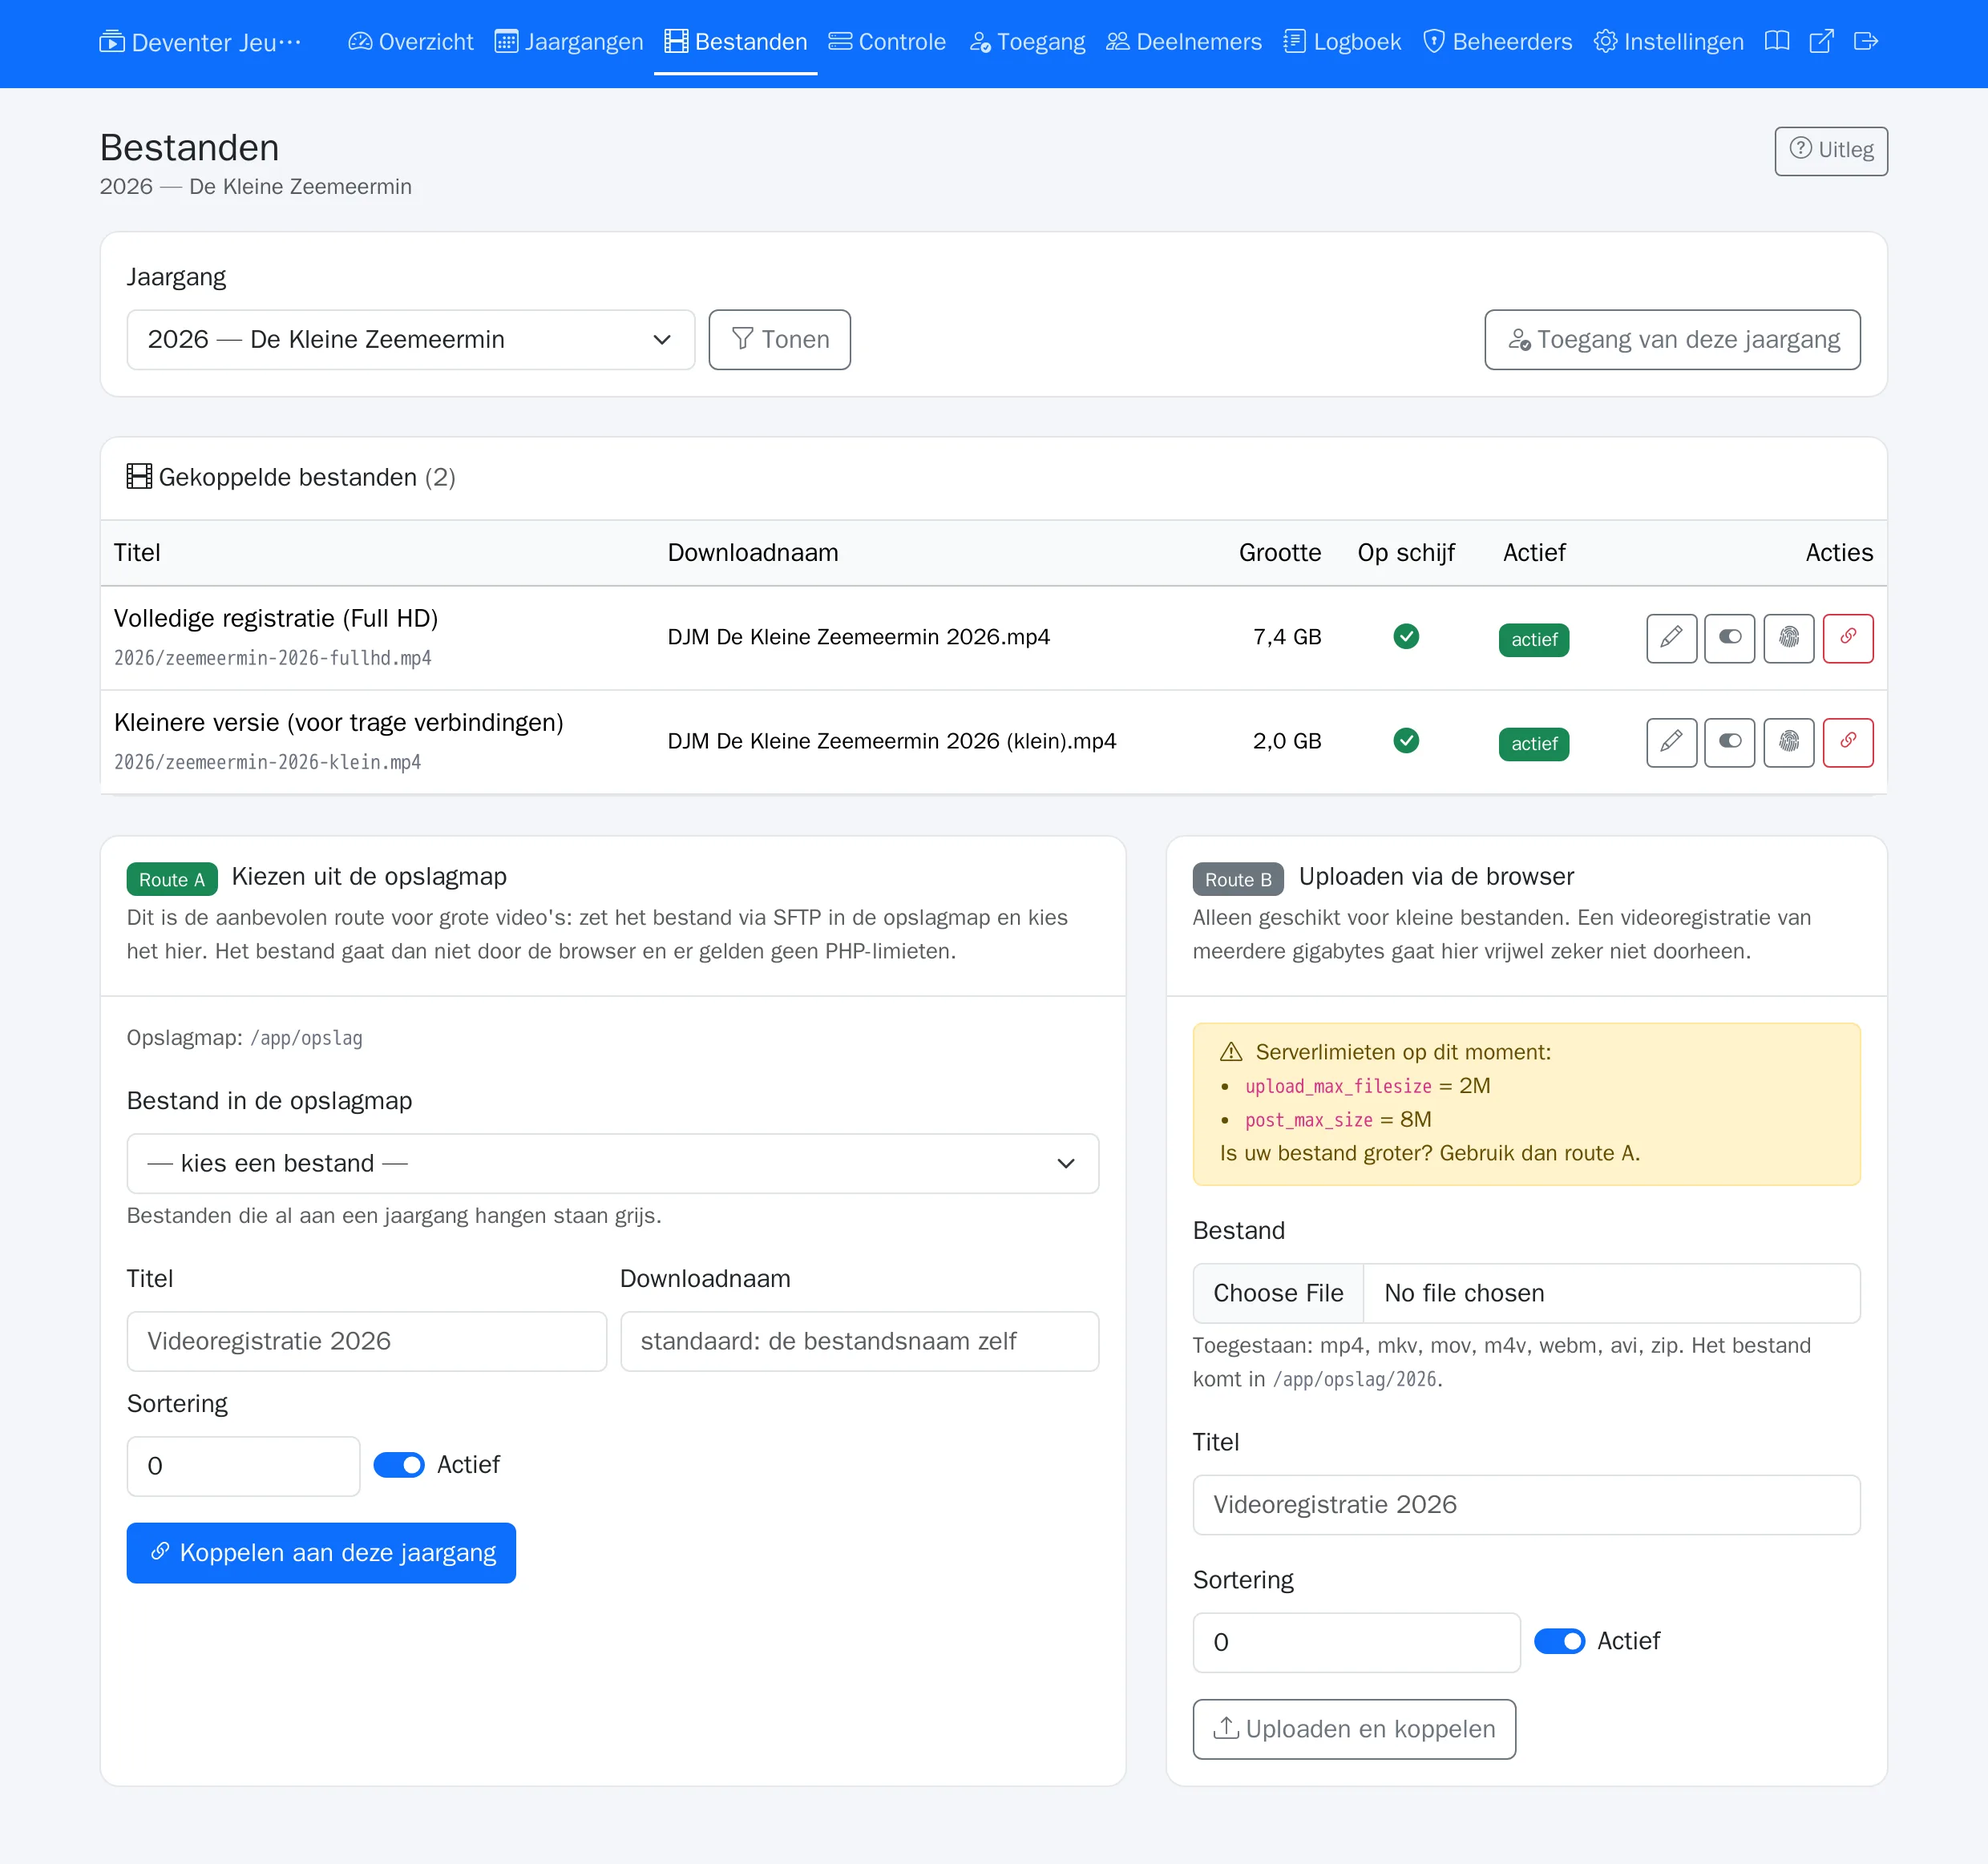
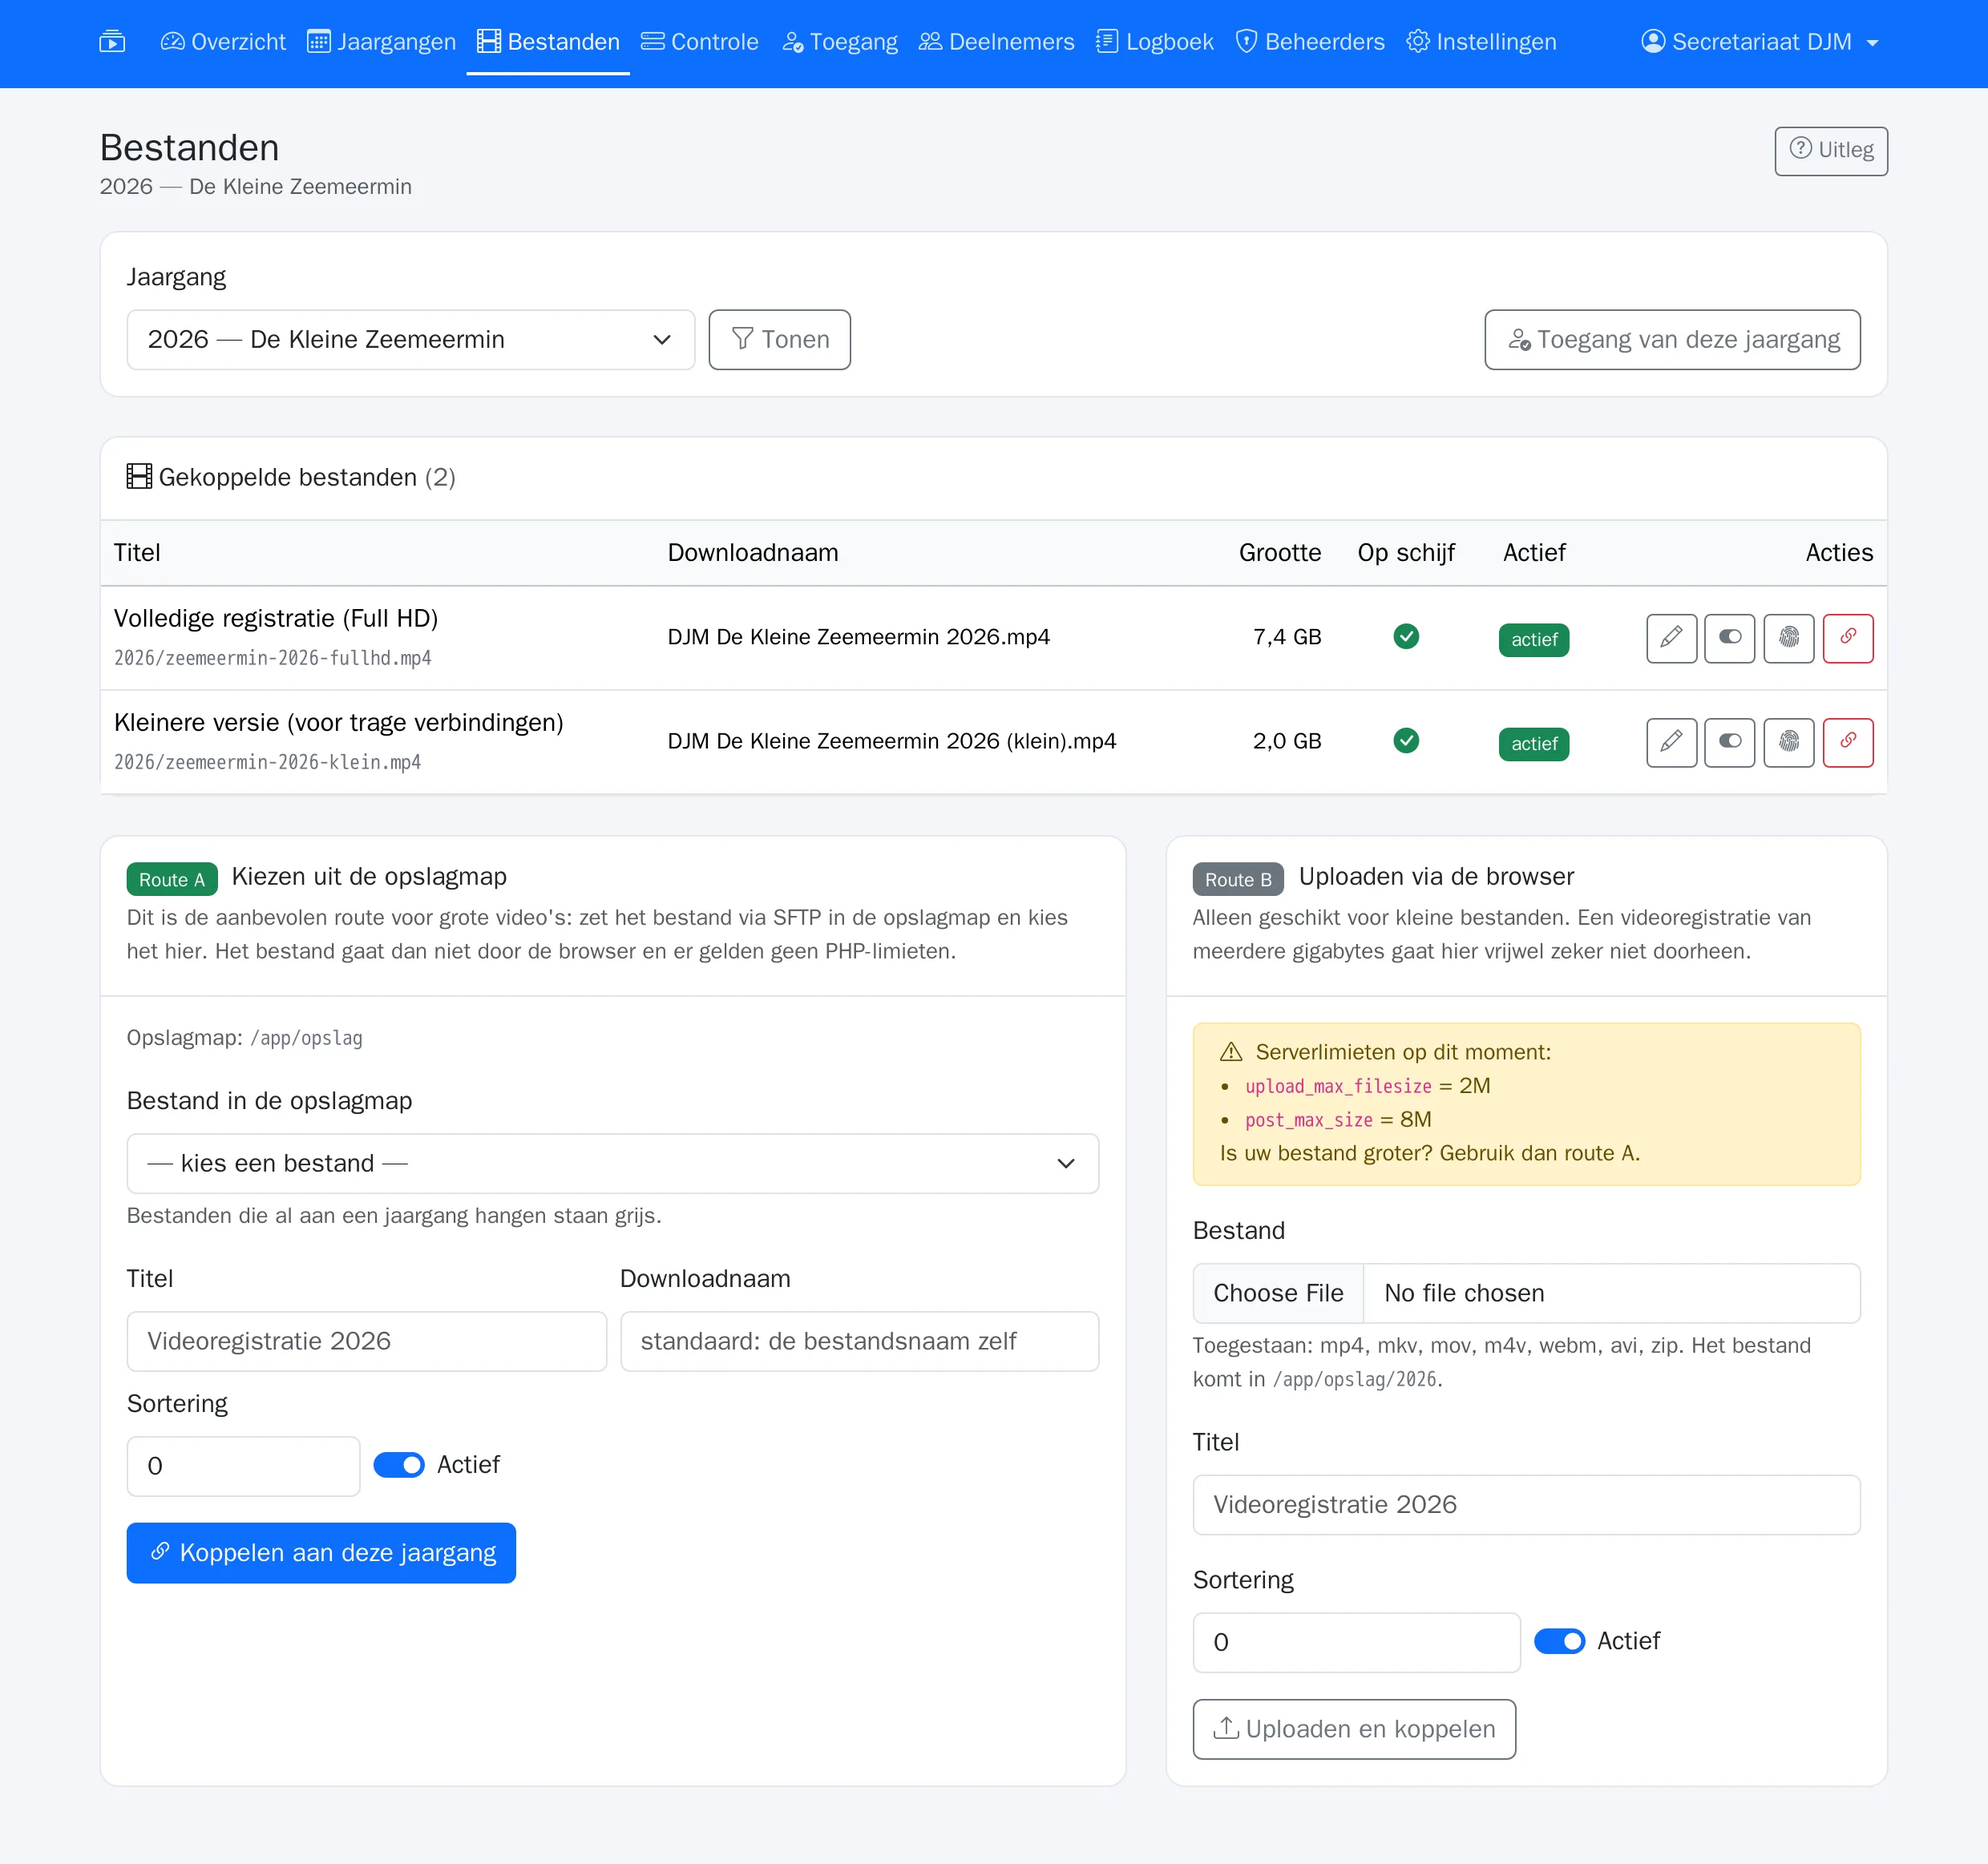
Update layout and styling for admin menu, enhance navigation, and improve changelog documentation

Changed region(s): [[0.0621, 0.0, 0.9315, 0.031]]

diff --git a/assets/djm.css b/assets/djm.css
@@ -351,14 +351,6 @@ body {
     outline-offset: 2px;
 }
 
-/* Het menu-item Uitloggen is een knop in een formulier (CSRF), maar moet er
-   hetzelfde uitzien als de links ernaast. */
-.navbar-djm .nav-link.btn {
-    border: 0;
-    padding-top: .5rem;
-    padding-bottom: .5rem;
-}
-
 /* Icoon en label horen op één regel te blijven. Zonder dit breekt het label
    onder het icoon zodra de balk krap wordt, en wordt de navigatiebalk anderhalf
    keer zo hoog. */
@@ -377,9 +369,9 @@ body {
     text-overflow: ellipsis;
 }
 
-/* Zodra het menu uitklapt, staan er tien items naast de portaalnaam binnen een
-   container van maximaal 1320 pixels. Met de standaardmaten van Bootstrap past
-   dat niet: de naam wordt dan op élk breed scherm afgekapt. Iets minder
+/* Zodra het menu uitklapt, staan er negen items plus het accountmenu naast het
+   logo, binnen een container van 1140 (xl) of 1320 pixels (xxl). Met de
+   standaardmaten van Bootstrap past dat op xl net niet; iets minder
    tussenruimte en een fractie kleinere letter lossen dat op. */
 @media (min-width: 1200px) {
     .navbar-djm .navbar-nav .nav-link {
@@ -394,33 +386,39 @@ body {
     }
 }
 
-/* Tussen 1200 en 1400 pixels is het nog krapper. Daar wordt de naam van de
-   beheerder ingeklapt tot alleen het uitlogicoon; hij blijft wel in de HTML
-   staan, zodat een schermlezer hem nog voorleest. */
-@media (min-width: 1200px) and (max-width: 1399.98px) {
-    .navbar-djm .djm-beheerdersnaam {
-        position: absolute !important;
-        width: 1px;
-        height: 1px;
-        padding: 0;
-        margin: -1px;
-        overflow: hidden;
-        clip: rect(0, 0, 0, 0);
-        white-space: nowrap;
-        border: 0;
-    }
-
-    /* De uitlogknop is het enige menu-item in een formulier; zonder zichtbaar
-       label hoeft het icoon daar geen rechtermarge meer. */
-    .navbar-djm form .nav-link .bi {
-        margin-right: 0 !important;
-    }
-}
-
 @media (min-width: 1400px) {
     .navbar-djm .navbar-brand {
         max-width: 420px;
     }
+}
+
+/* Zonder logo staat de portaalnaam links. Tussen 1200 en 1400 pixels is daar
+   geen ruimte voor naast het uitgeklapte menu; een naam van een paar letters
+   ("D…") zegt niets, dus dan alleen het icoon. De naam staat in de tooltip. */
+@media (min-width: 1200px) and (max-width: 1399.98px) {
+    .djm-beheer .navbar-brand .djm-merknaam {
+        display: none;
+    }
+}
+
+/* Het logo in de balk van het beheer: vrij te uploaden, dus een vaste hoogte. */
+.djm-beheer .navbar-brand img {
+    height: 32px;
+    width: auto;
+    max-width: 160px;
+    object-fit: contain;
+}
+
+/* Het accountmenu: de actieve regel in de merkkleur in plaats van Bootstrap-blauw.
+   Uitloggen is een knop in een formulier en moet er net zo uitzien als de links. */
+.navbar-djm .dropdown-menu {
+    --bs-dropdown-link-active-bg: var(--djm);
+    --bs-dropdown-link-active-color: var(--djm-tekst);
+    min-width: 13rem;
+}
+
+.navbar-djm .dropdown-toggle::after {
+    vertical-align: .15em;
 }
 
 .kaart {

diff --git a/admin/includes/layout.php b/admin/includes/layout.php
@@ -52,6 +52,7 @@ function admin_start(string $titel, string $subtitel = ''): void
     $naam   = portaal_naam();
     $kleur  = branding_kleur();
     $beheerderNaam = (string)($_SESSION['beheerder_naam'] ?? '');
+    $logo   = branding_logo();
     ?>
 <!DOCTYPE html>
 <html lang="nl">
@@ -63,8 +64,15 @@ function admin_start(string $titel, string $subtitel = ''): void
 <body class="djm-beheer">
     <nav class="navbar navbar-expand-xl navbar-djm mb-4">
         <div class="container-xl">
-            <a class="navbar-brand fw-semibold" href="<?= h(url('admin/index.php')) ?>">
-                <i class="bi bi-collection-play me-1"></i><?= h($naam) ?>
+            <!-- Het logo in plaats van de naam: de naam is vrij in te vullen en kan lang
+                 zijn, en naast negen menu-items bleef er dan maar een paar letters van over. -->
+            <a class="navbar-brand fw-semibold d-flex align-items-center gap-2" href="<?= h(url('admin/index.php')) ?>"
+                title="<?= h($naam) ?> — beheer">
+                <?php if ($logo !== ''): ?>
+                    <img src="<?= h($logo) ?>" alt="<?= h($naam) ?>" height="32">
+                <?php else: ?>
+                    <i class="bi bi-collection-play"></i><span class="text-truncate djm-merknaam"><?= h($naam) ?></span>
+                <?php endif; ?>
             </a>
             <button class="navbar-toggler border-0" type="button" data-bs-toggle="collapse"
                 data-bs-target="#adminNav"><i class="bi bi-list fs-3"></i></button>
@@ -79,33 +87,40 @@ function admin_start(string $titel, string $subtitel = ''): void
                         </li>
                     <?php endforeach; ?>
                 </ul>
+                <!-- Handleiding, het portaal en uitloggen staan onder de naam van de beheerder.
+                     Zo past het hele menu op één regel, ook tussen 1200 en 1400 pixels. -->
                 <ul class="navbar-nav">
-                    <li class="nav-item">
-                        <!-- Tussen xl en xxl is de balk te smal voor het woord; dan alleen het icoon. -->
-                        <a class="nav-link <?= $huidig === 'handleiding.php' ? 'active' : '' ?>"
-                            href="<?= h(url('admin/handleiding.php')) ?>" title="Handleiding">
-                            <i class="bi bi-book"></i><span class="ms-1 d-xl-none d-xxl-inline">Handleiding</span>
+                    <li class="nav-item dropdown">
+                        <a class="nav-link dropdown-toggle <?= $huidig === 'handleiding.php' ? 'active' : '' ?>" href="#"
+                            role="button" data-bs-toggle="dropdown" aria-expanded="false">
+                            <i class="bi bi-person-circle me-1"></i><span
+                                class="djm-afkappen"><?= h($beheerderNaam ?: 'Account') ?></span>
                         </a>
-                    </li>
-                    <li class="nav-item">
-                        <!-- Net als Handleiding: tussen xl en xxl alleen het icoon, zodat de
-                             portaalnaam links niet tot een paar letters wordt afgekapt. -->
-                        <a class="nav-link" href="<?= h(url('index.php')) ?>" target="_blank" title="Portaal">
-                            <i class="bi bi-box-arrow-up-right"></i><span class="ms-1 d-xl-none d-xxl-inline">Portaal</span>
-                        </a>
-                    </li>
-                    <li class="nav-item">
-                        <!-- Uitloggen wijzigt de sessie en gaat daarom via POST met een
-                             CSRF-token; een <img src="…/logout.php"> op een andere site
-                             kan de beheerder dan niet ongevraagd uitloggen. -->
-                        <form method="post" action="<?= h(url('admin/logout.php')) ?>" class="d-inline">
-                            <?= csrf_field() ?>
-                            <button type="submit" class="nav-link btn btn-link text-decoration-none"
-                                title="Uitloggen">
-                                <i class="bi bi-box-arrow-right me-1"></i><span
-                                    class="djm-afkappen djm-beheerdersnaam"><?= h($beheerderNaam ?: 'Uitloggen') ?></span>
-                            </button>
-                        </form>
+                        <ul class="dropdown-menu dropdown-menu-end shadow-sm">
+                            <li>
+                                <a class="dropdown-item <?= $huidig === 'handleiding.php' ? 'active' : '' ?>"
+                                    href="<?= h(url('admin/handleiding.php')) ?>">
+                                    <i class="bi bi-book me-2"></i>Handleiding
+                                </a>
+                            </li>
+                            <li>
+                                <a class="dropdown-item" href="<?= h(url('index.php')) ?>" target="_blank">
+                                    <i class="bi bi-box-arrow-up-right me-2"></i>Portaal bekijken
+                                </a>
+                            </li>
+                            <li><hr class="dropdown-divider"></li>
+                            <li>
+                                <!-- Uitloggen wijzigt de sessie en gaat daarom via POST met een
+                                     CSRF-token; een <img src="…/logout.php"> op een andere site
+                                     kan de beheerder dan niet ongevraagd uitloggen. -->
+                                <form method="post" action="<?= h(url('admin/logout.php')) ?>" class="m-0">
+                                    <?= csrf_field() ?>
+                                    <button type="submit" class="dropdown-item">
+                                        <i class="bi bi-box-arrow-right me-2"></i>Uitloggen
+                                    </button>
+                                </form>
+                            </li>
+                        </ul>
                     </li>
                 </ul>
             </div>

diff --git a/CHANGELOG.md b/CHANGELOG.md
@@ -6,6 +6,10 @@ Alle noemenswaardige wijzigingen aan het DJM Portaal.
 
 ### Beheer
 
+- **De menubalk van het beheer past weer op één regel.** Handleiding, Portaal bekijken en
+  Uitloggen staan nu in een menu onder de naam van de beheerder, en links staat het logo in
+  plaats van de portaalnaam (zonder logo blijft de naam staan). Voorheen bleef er op een breed
+  scherm van de portaalnaam maar één letter over.
 - **Nieuw: Beheer › Beheerders.** Beheerders toevoegen, een nieuwe link sturen en accounts uit-
   en weer inschakelen, zonder server of database. Een nieuwe beheerder krijgt een uitnodiging
   per e-mail en kiest daarin zelf een wachtwoord (link 72 uur geldig); niemand anders ziet het.

diff --git a/docs/BEHEER.md b/docs/BEHEER.md
@@ -15,7 +15,7 @@ Wie alleen het jaarlijkse werk doet, heeft genoeg aan hoofdstuk 1 tot en met 5 e
 [NIEUW-JAAR.md](NIEUW-JAAR.md).
 
 > **In het portaal staat dezelfde handleiding, met schermafdrukken:** log in op het beheer en
-> kies **Handleiding** rechts in de menubalk. Elk beheerscherm heeft ook een knop **Uitleg**.
+> kies **Handleiding** onder uw naam, rechts in de menubalk. Elk beheerscherm heeft ook een knop **Uitleg**.
 > Dit bestand is de tekstversie, voor wie (nog) niet kan inloggen.
 
 ---
